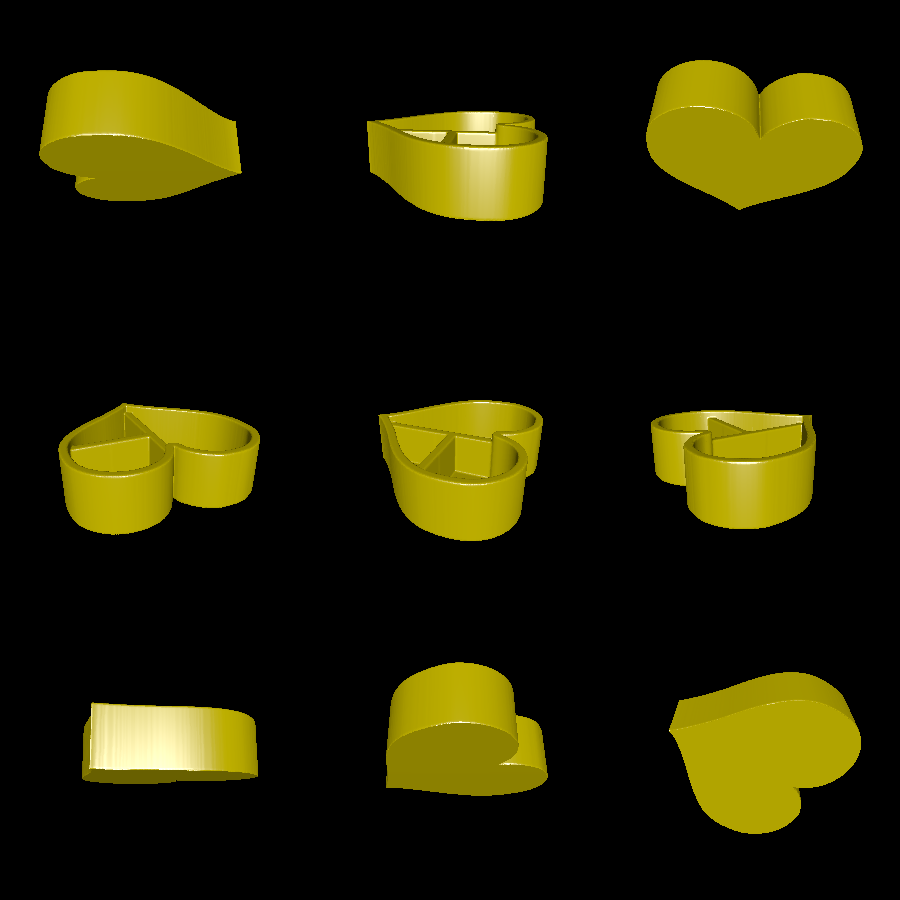
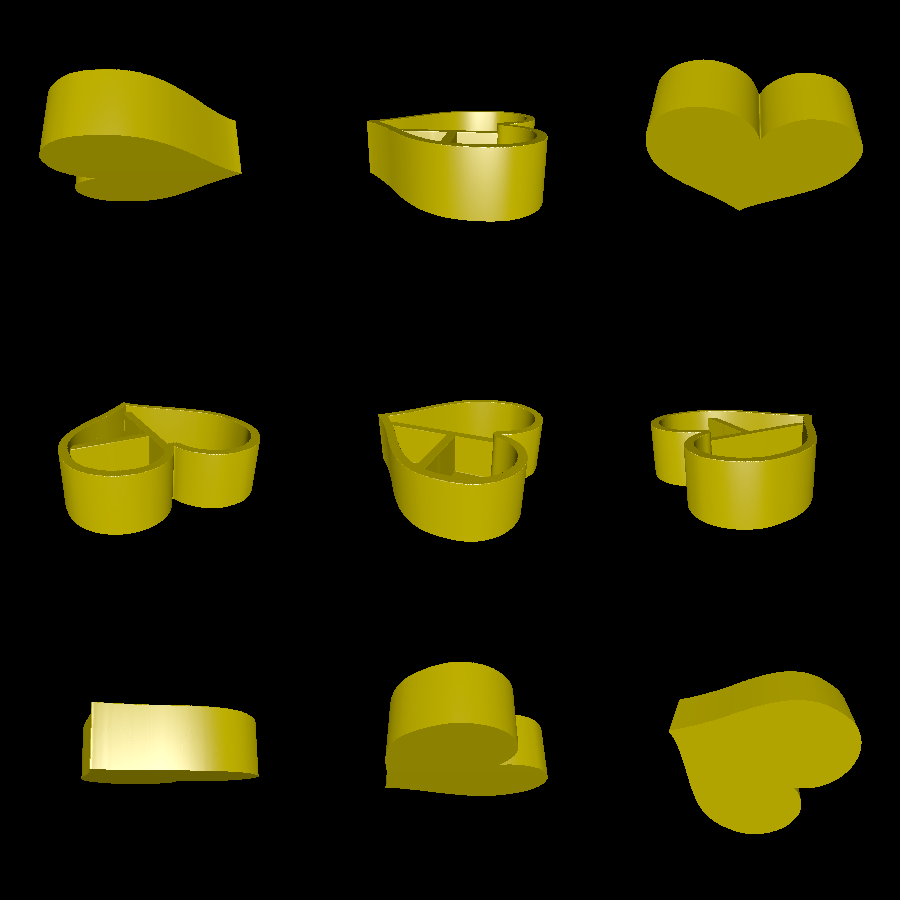
heart_box: much smoother finish, MUCH smaller meshes
Old meshes were ~1M triangles, now they are ~40K triangles.

diff --git a/examples/romantic/heart_box/main.go b/examples/romantic/heart_box/main.go
@@ -25,16 +25,18 @@ const (
 )
 
 func main() {
+	log.Println("Loading 2D shapes...")
 	outline := model2d.MeshToCollider(
-		model2d.MustReadBitmap("outline.png", nil).FlipY().Mesh().Smooth(50),
+		model2d.MustReadBitmap("outline.png", nil).FlipY().Mesh().SmoothSq(200),
 	)
 	sections := model2d.MeshToCollider(
-		model2d.MustReadBitmap("sections.png", nil).FlipY().Mesh(),
+		model2d.MustReadBitmap("sections.png", nil).FlipY().Mesh().SmoothSq(100),
 	)
 
 	log.Println("Creating box...")
 	mesh := model3d.MarchingCubesSearch(&BoxSolid{Outline: outline, Sections: sections}, 0.02, 8)
-	mesh = mesh.SmoothAreas(0.1, 20)
+	log.Println(" - eliminating co-planar...")
+	mesh = mesh.EliminateCoplanar(1e-8)
 	log.Println(" - flattening base...")
 	mesh = mesh.FlattenBase(0)
 	log.Println(" - saving...")
@@ -44,7 +46,8 @@ func main() {
 
 	log.Println("Creating lid...")
 	mesh = model3d.MarchingCubesSearch(&LidSolid{Outline: outline}, 0.02, 8)
-	mesh = mesh.SmoothAreas(0.1, 20)
+	log.Println(" - eliminating co-planar...")
+	mesh = mesh.EliminateCoplanar(1e-8)
 	log.Println(" - flattening base...")
 	mesh = mesh.FlattenBase(0)
 	log.Println(" - saving...")
